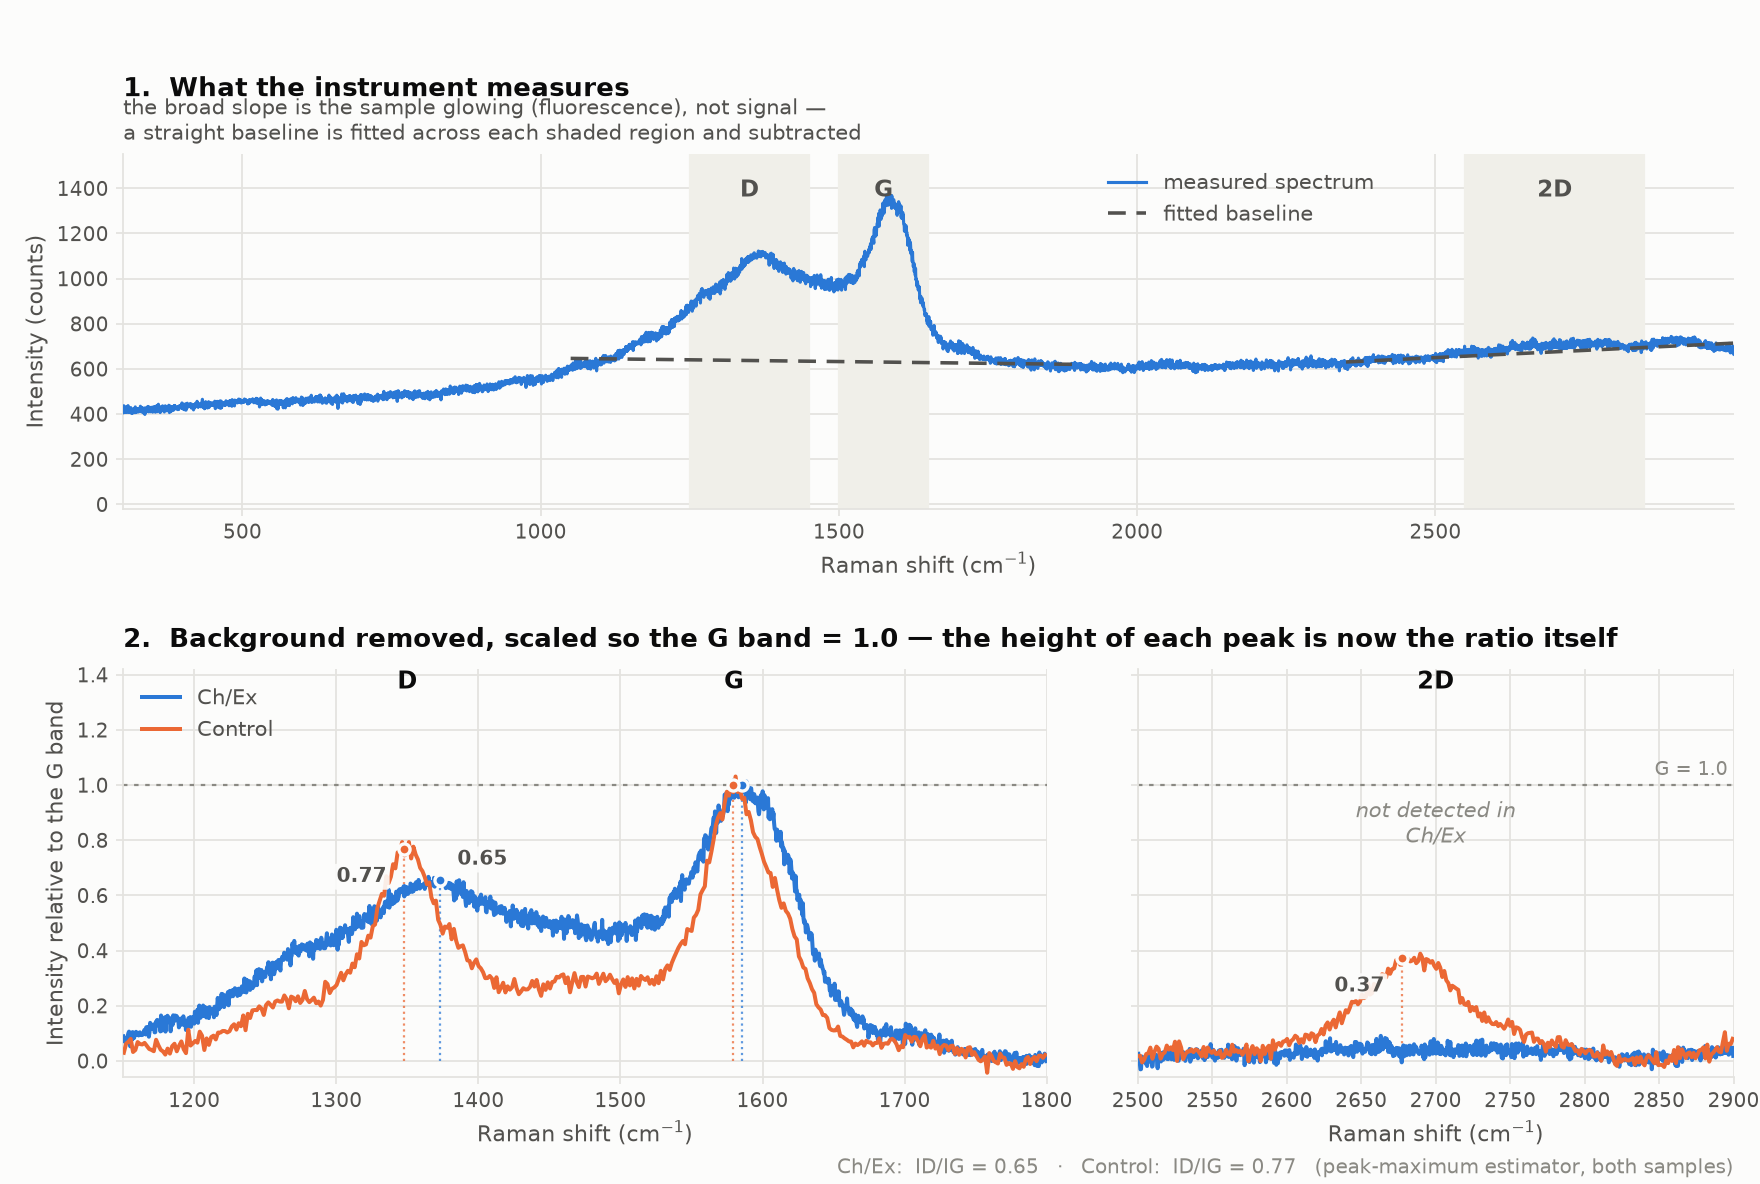
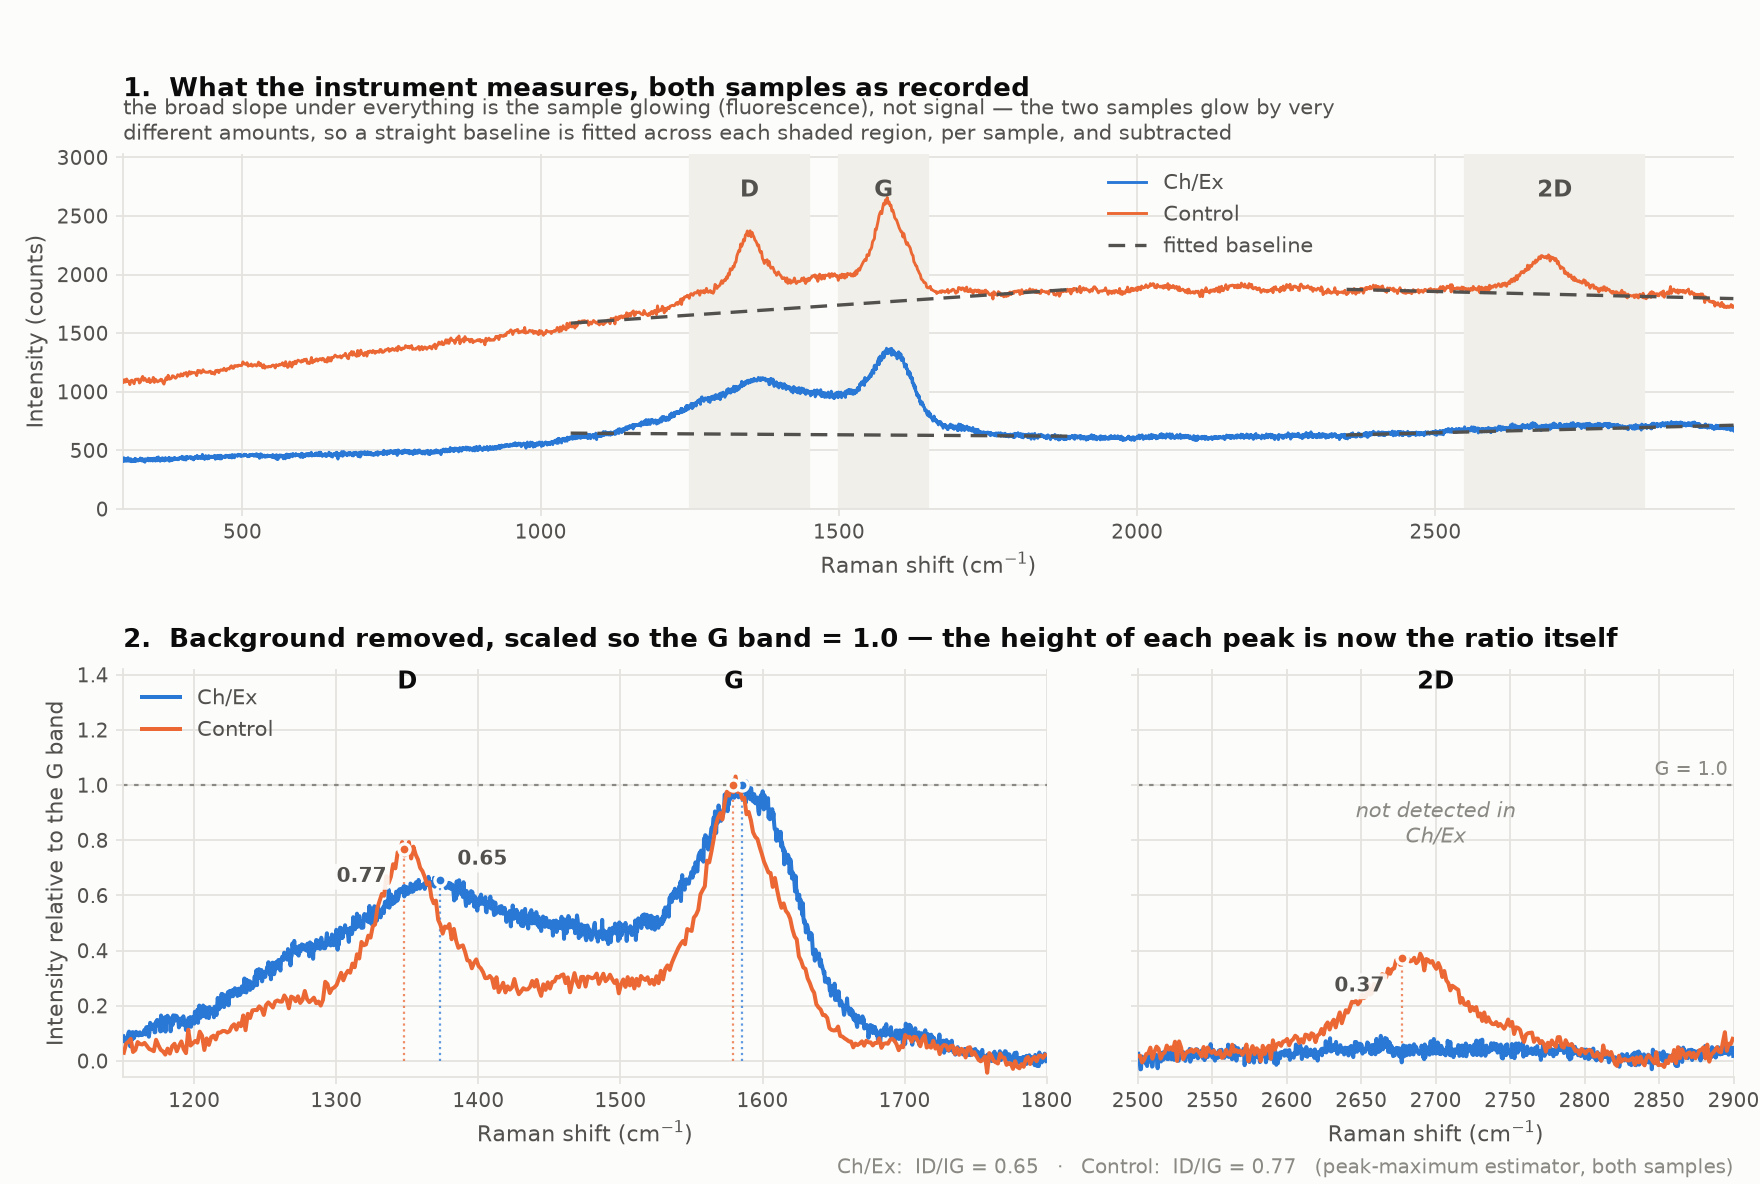
Overlay both raw spectra in the figure's top panel
The top panel showed one sample's raw trace; the comparison only appeared
after background removal. Both are now plotted together as recorded, each with
its own fitted baseline.

Their band heights above baseline are comparable (~730 and ~860 counts) but
their fluorescence backgrounds are not -- medians of 637 and 1854 counts -- so
the two traces separate vertically by roughly the amount they differ in glow.
That separation is the panel's point: it shows why a per-sample baseline is
needed before any ratio can be compared.

Kept to a single y axis in raw counts. The raw maxima differ by under 2x, so
both traces read clearly without rescaling either one.

Legend orders the two samples adjacently with the baseline entry last, rather
than splitting the compared traces.

Verified: 71 tests pass; figure re-rendered and inspected.

Claude-Session: https://claude.ai/code/session_013vfsGFd6dbA2Kan1pGta8S

Changed region(s): [[0.0312, 0.0625, 1.0, 0.4062], [0.0938, 0.1562, 0.375, 0.1875], [0.9375, 0.1562, 0.9688, 0.1875]]

diff --git a/plot_spectrum.py b/plot_spectrum.py
@@ -22,6 +22,7 @@ matplotlib.use("Agg")
 import matplotlib.pyplot as plt
 import numpy as np
 from matplotlib.gridspec import GridSpec
+from matplotlib.lines import Line2D
 
 import analyse_raman as ar
 
@@ -94,17 +95,25 @@ def main(argv=None) -> int:
     # What the instrument produces, and what gets subtracted.
     ax = fig.add_subplot(gs[0, :])
     style(ax)
-    label, x, y, _, _ = samples[0]
-    ax.plot(x, y, color=SERIES[0], linewidth=1.4, zorder=3,
-            label="measured spectrum")
 
-    base_dg, _ = ar.linear_baseline(x, y, "DG")
-    base_2d, _ = ar.linear_baseline(x, y, "2D")
-    for region, base, (lo, hi) in (("DG", base_dg, (1050, 1900)),
-                                   ("2D", base_2d, (2350, 3050))):
-        m = (x >= lo) & (x <= hi)
-        ax.plot(x[m], base[m], color=INK_2, linewidth=1.6, linestyle=(0, (5, 3)),
-                zorder=4, label="fitted baseline" if region == "DG" else None)
+    # Both samples on one shared axis, in raw counts. Their band heights above
+    # baseline are comparable (~730 and ~860 counts) but their backgrounds are
+    # not, so plotting them together shows how differently the two samples
+    # fluoresce -- which is the point of this panel. One y axis, never two.
+    x_lo, x_hi, y_top = 1e9, -1e9, -1e9
+    for i, (label, x, y, _peaks, _notes) in enumerate(samples):
+        ax.plot(x, y, color=SERIES[i], linewidth=1.3, zorder=3, label=label)
+        for region, (lo, hi) in (("DG", (1050, 1900)), ("2D", (2350, 3050))):
+            base, _ = ar.linear_baseline(x, y, region)
+            m = (x >= lo) & (x <= hi)
+            if not m.any():
+                continue
+            ax.plot(x[m], base[m], color=INK_2, linewidth=1.5,
+                    linestyle=(0, (5, 3)), zorder=4)
+        x_lo, x_hi = min(x_lo, x[0]), max(x_hi, x[-1])
+        vis = y[x >= 300.0]
+        if len(vis):
+            y_top = max(y_top, float(vis.max()))
 
     for name in ("D", "G", "2D"):
         lo, hi = ar.BANDS[name]["window"]
@@ -115,18 +124,26 @@ def main(argv=None) -> int:
                 transform=ax.get_xaxis_transform(), fontsize=10.5,
                 color=INK_2, fontweight="bold", zorder=6)
 
-    ax.set_xlim(max(x[0], 300.0), x[-1])
-    ax.set_ylim(top=ax.get_ylim()[1] * 1.08)
+    ax.set_xlim(max(x_lo, 300.0), x_hi)
+    ax.set_ylim(bottom=0.0, top=y_top * 1.14)
     ax.set_ylabel("Intensity (counts)", fontsize=10, color=INK_2)
     ax.set_xlabel("Raman shift (cm$^{-1}$)", fontsize=10, color=INK_2)
-    ax.set_title("1.  What the instrument measures",
+    ax.set_title("1.  What the instrument measures, both samples as recorded",
                  fontsize=11.5, color=INK, loc="left", pad=26, fontweight="bold")
-    ax.annotate("the broad slope is the sample glowing (fluorescence), not signal —\n"
-                "a straight baseline is fitted across each shaded region and subtracted",
+    ax.annotate("the broad slope under everything is the sample glowing "
+                "(fluorescence), not signal — the two samples glow by very\n"
+                "different amounts, so a straight baseline is fitted across each "
+                "shaded region, per sample, and subtracted",
                 xy=(0.0, 1.02), xycoords="axes fraction", fontsize=9.5,
                 color=INK_2, va="bottom")
-    ax.legend(loc="upper left", bbox_to_anchor=(0.60, 1.0), frameon=False,
-              fontsize=9.5, labelcolor=INK_2, handlelength=1.8)
+    # Both samples first, then the baseline, so the two traces being compared
+    # sit next to each other rather than being split by an annotation entry.
+    handles, labels = ax.get_legend_handles_labels()
+    handles.append(Line2D([], [], color=INK_2, linewidth=1.5,
+                          linestyle=(0, (5, 3))))
+    labels.append("fitted baseline")
+    ax.legend(handles, labels, loc="upper left", bbox_to_anchor=(0.60, 1.0),
+              frameon=False, fontsize=9.5, labelcolor=INK_2, handlelength=1.8)
 
     # ------------------------------------------------------------- bottom --
     # Same data, background removed, scaled so G = 1. The y axis is the ratio.
